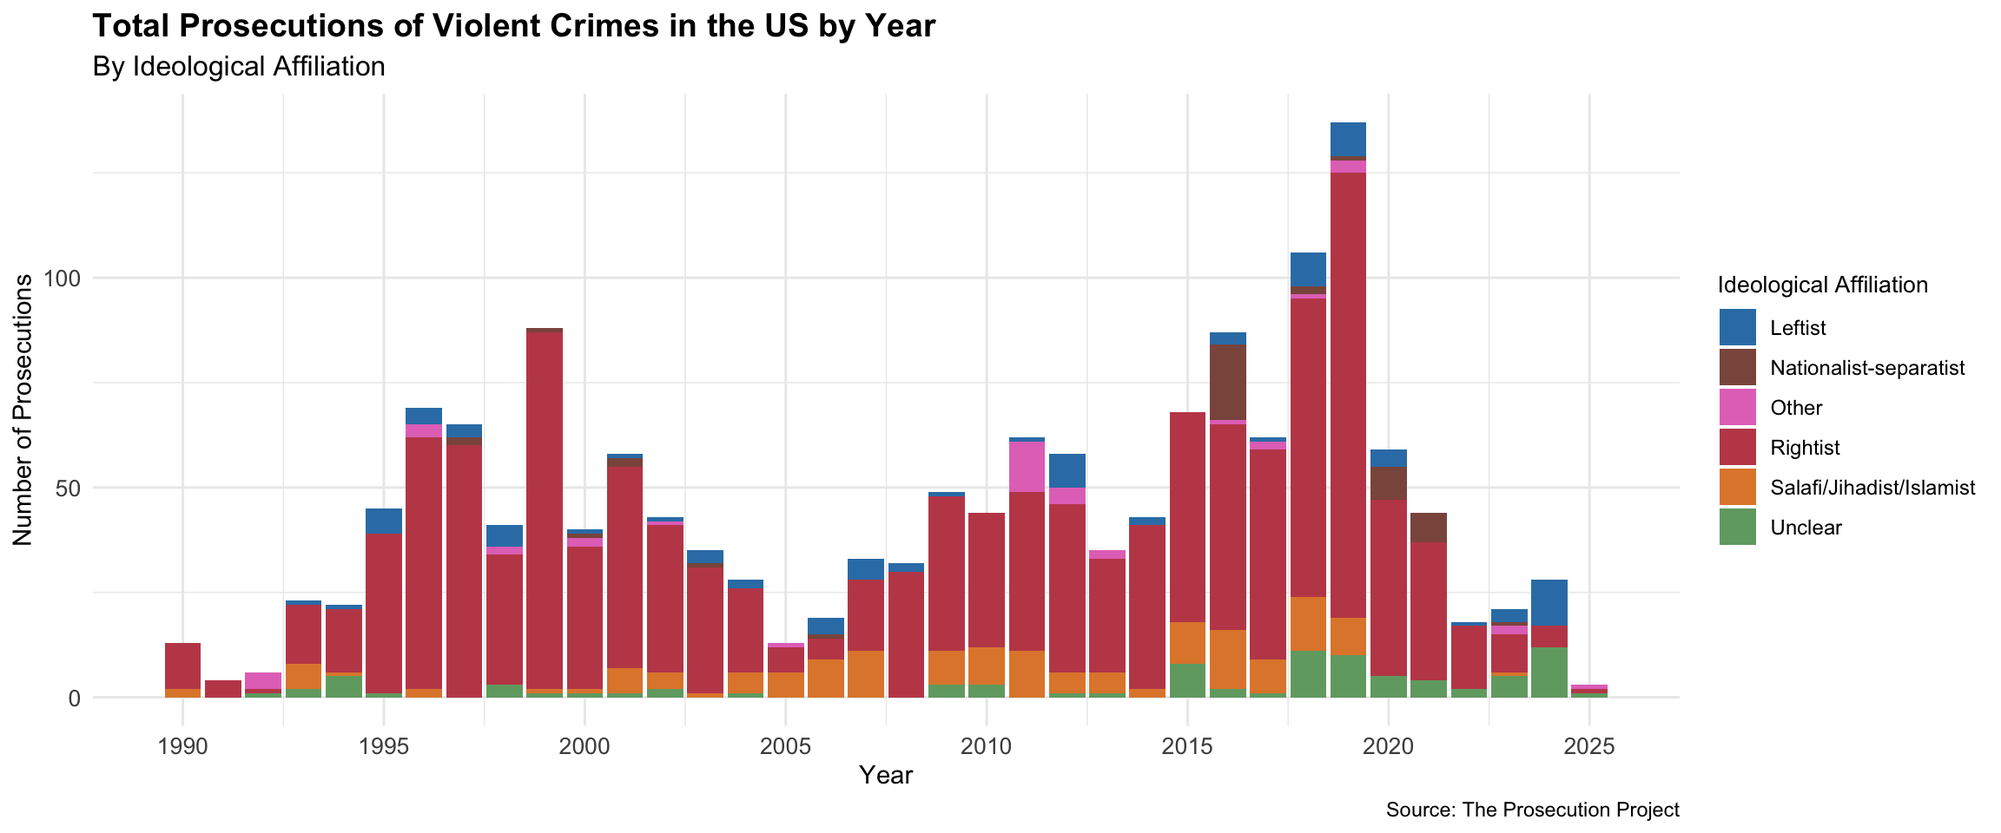
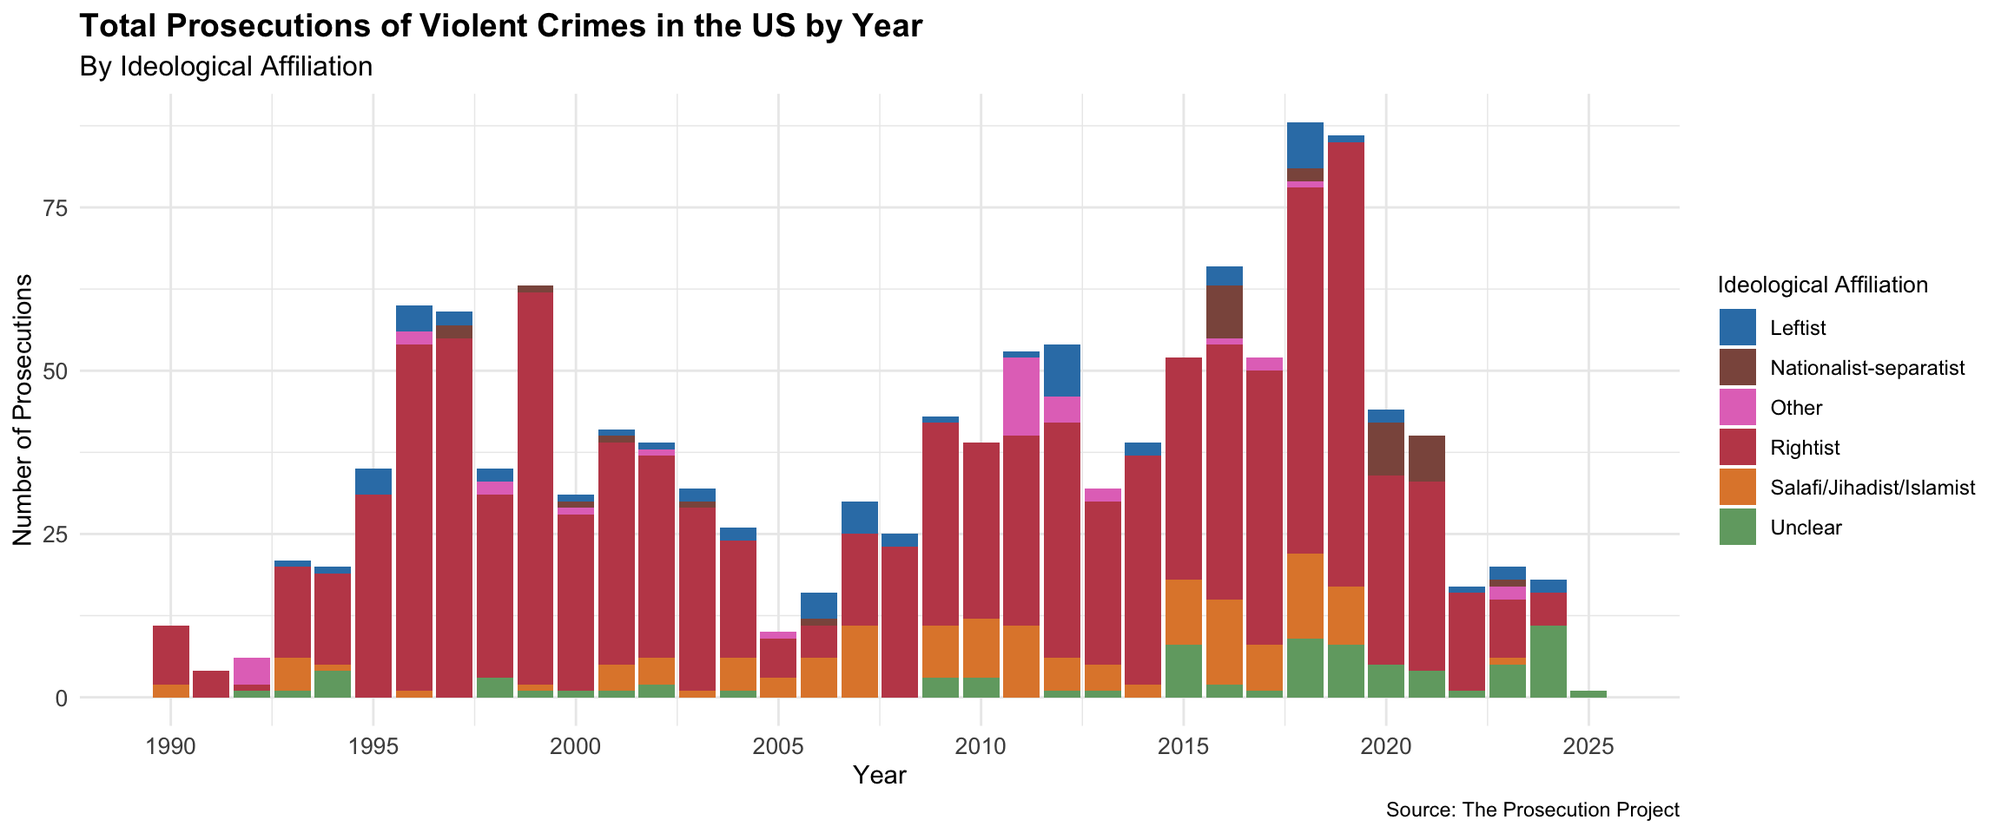
Don't double count deaths in cases where more than one person is tried for the same incident

diff --git a/violence.html b/violence.html
@@ -117,7 +117,7 @@ pre > code.sourceCode > span > a:first-child::before { text-decoration: underlin
 </div>
 <section id="prepare-the-data" class="level2">
 <h2 class="anchored" data-anchor-id="prepare-the-data">Prepare the data</h2>
-<p>Import the data, clean the column names, and filter for only the US.</p>
+<p>Import the data, clean the column names, and remove pending cases and cases without clear guilty verdict, filter for only the US.</p>
 <div class="cell">
 <details class="code-fold">
 <summary>Code</summary>
@@ -134,10 +134,19 @@ pre > code.sourceCode > span > a:first-child::before { text-decoration: underlin
 <span id="cb2-11"><a href="#cb2-11" aria-hidden="true" tabindex="-1"></a>    )</span>
 <span id="cb2-12"><a href="#cb2-12" aria-hidden="true" tabindex="-1"></a>  )</span>
 <span id="cb2-13"><a href="#cb2-13" aria-hidden="true" tabindex="-1"></a></span>
-<span id="cb2-14"><a href="#cb2-14" aria-hidden="true" tabindex="-1"></a>df <span class="ot">&lt;-</span> df <span class="sc">|&gt;</span> </span>
-<span id="cb2-15"><a href="#cb2-15" aria-hidden="true" tabindex="-1"></a>    <span class="fu">filter</span>(location_country <span class="sc">==</span> <span class="st">"United States"</span>)</span></code><button title="Copy to Clipboard" class="code-copy-button"><i class="bi"></i></button></pre></div>
+<span id="cb2-14"><a href="#cb2-14" aria-hidden="true" tabindex="-1"></a>no_clear_guilt <span class="ot">&lt;-</span> <span class="fu">c</span>(<span class="st">"Charged but not tried"</span>, <span class="st">"Data not available"</span>, <span class="st">"Not guilty"</span>, <span class="st">"Hung jury/mistrial"</span>, <span class="st">"Pending"</span>)</span>
+<span id="cb2-15"><a href="#cb2-15" aria-hidden="true" tabindex="-1"></a>num_no_clear_guilt <span class="ot">&lt;-</span> df <span class="sc">|&gt;</span> </span>
+<span id="cb2-16"><a href="#cb2-16" aria-hidden="true" tabindex="-1"></a>    <span class="fu">filter</span>(verdict <span class="sc">%in%</span> no_clear_guilt) <span class="sc">|&gt;</span> </span>
+<span id="cb2-17"><a href="#cb2-17" aria-hidden="true" tabindex="-1"></a>    <span class="fu">nrow</span>()</span>
+<span id="cb2-18"><a href="#cb2-18" aria-hidden="true" tabindex="-1"></a></span>
+<span id="cb2-19"><a href="#cb2-19" aria-hidden="true" tabindex="-1"></a>df <span class="ot">&lt;-</span> df <span class="sc">|&gt;</span> </span>
+<span id="cb2-20"><a href="#cb2-20" aria-hidden="true" tabindex="-1"></a>    <span class="fu">filter</span>(<span class="sc">!</span>verdict <span class="sc">%in%</span> no_clear_guilt)</span>
+<span id="cb2-21"><a href="#cb2-21" aria-hidden="true" tabindex="-1"></a></span>
+<span id="cb2-22"><a href="#cb2-22" aria-hidden="true" tabindex="-1"></a>df <span class="ot">&lt;-</span> df <span class="sc">|&gt;</span> </span>
+<span id="cb2-23"><a href="#cb2-23" aria-hidden="true" tabindex="-1"></a>    <span class="fu">filter</span>(location_country <span class="sc">==</span> <span class="st">"United States"</span>)</span></code><button title="Copy to Clipboard" class="code-copy-button"><i class="bi"></i></button></pre></div>
 </details>
 </div>
+<p>There were <em>1322</em> cases without a clear guilty verdict that were removed from the analysis.</p>
 <p>How many cases are not linked or motivated politically?</p>
 <div class="cell">
 <details class="code-fold">
@@ -149,7 +158,7 @@ pre > code.sourceCode > span > a:first-child::before { text-decoration: underlin
 <span id="cb3-5"><a href="#cb3-5" aria-hidden="true" tabindex="-1"></a>    <span class="fu">nrow</span>()</span></code><button title="Copy to Clipboard" class="code-copy-button"><i class="bi"></i></button></pre></div>
 </details>
 </div>
-<p>There are <em>299</em> cases not politically motivated out of a total of <em>4242 cases</em>, which is <em>7.05%</em>. So, we will exclude the non-politically motivated cases from our analysis.</p>
+<p>There were <em>243</em> cases not politically motivated out of a total of <em>3304 cases</em>, which is <em>7.35%</em>. So, we will exclude the non-politically motivated cases going forward.</p>
 <div class="cell">
 <details class="code-fold">
 <summary>Code</summary>
@@ -220,55 +229,55 @@ pre > code.sourceCode > span > a:first-child::before { text-decoration: underlin
 <tbody>
 <tr class="odd">
 <td style="text-align: left;">Leftist: eco-animal focused</td>
-<td style="text-align: right;">185</td>
+<td style="text-align: right;">120</td>
 </tr>
 <tr class="even">
 <td style="text-align: left;">Leftist: government-focused</td>
-<td style="text-align: right;">341</td>
-</tr>
-<tr class="odd">
-<td style="text-align: left;">Leftist: identity-focused</td>
-<td style="text-align: right;">48</td>
-</tr>
-<tr class="even">
-<td style="text-align: left;">Leftist: unspecified</td>
-<td style="text-align: right;">18</td>
-</tr>
-<tr class="odd">
-<td style="text-align: left;">Nationalist-separatist</td>
-<td style="text-align: right;">94</td>
-</tr>
-<tr class="even">
-<td style="text-align: left;">No affiliation/not a factor</td>
-<td style="text-align: right;">127</td>
-</tr>
-<tr class="odd">
-<td style="text-align: left;">Other</td>
-<td style="text-align: right;">56</td>
-</tr>
-<tr class="even">
-<td style="text-align: left;">Rightist: abortion-focused</td>
 <td style="text-align: right;">103</td>
 </tr>
 <tr class="odd">
+<td style="text-align: left;">Leftist: identity-focused</td>
+<td style="text-align: right;">25</td>
+</tr>
+<tr class="even">
+<td style="text-align: left;">Leftist: unspecified</td>
+<td style="text-align: right;">6</td>
+</tr>
+<tr class="odd">
+<td style="text-align: left;">Nationalist-separatist</td>
+<td style="text-align: right;">70</td>
+</tr>
+<tr class="even">
+<td style="text-align: left;">No affiliation/not a factor</td>
+<td style="text-align: right;">108</td>
+</tr>
+<tr class="odd">
+<td style="text-align: left;">Other</td>
+<td style="text-align: right;">47</td>
+</tr>
+<tr class="even">
+<td style="text-align: left;">Rightist: abortion-focused</td>
+<td style="text-align: right;">92</td>
+</tr>
+<tr class="odd">
 <td style="text-align: left;">Rightist: government-focused</td>
-<td style="text-align: right;">515</td>
+<td style="text-align: right;">438</td>
 </tr>
 <tr class="even">
 <td style="text-align: left;">Rightist: identity-focused</td>
-<td style="text-align: right;">1571</td>
+<td style="text-align: right;">1289</td>
 </tr>
 <tr class="odd">
 <td style="text-align: left;">Rightist: unspecified</td>
-<td style="text-align: right;">58</td>
+<td style="text-align: right;">49</td>
 </tr>
 <tr class="even">
 <td style="text-align: left;">Salafi/Jihadist/Islamist</td>
-<td style="text-align: right;">636</td>
+<td style="text-align: right;">552</td>
 </tr>
 <tr class="odd">
 <td style="text-align: left;">Unclear</td>
-<td style="text-align: right;">167</td>
+<td style="text-align: right;">141</td>
 </tr>
 </tbody>
 </table>
@@ -305,31 +314,31 @@ pre > code.sourceCode > span > a:first-child::before { text-decoration: underlin
 <tbody>
 <tr class="odd">
 <td style="text-align: left;">Rightist</td>
-<td style="text-align: right;">2247</td>
+<td style="text-align: right;">1868</td>
 </tr>
 <tr class="even">
 <td style="text-align: left;">Salafi/Jihadist/Islamist</td>
-<td style="text-align: right;">636</td>
+<td style="text-align: right;">552</td>
 </tr>
 <tr class="odd">
 <td style="text-align: left;">Leftist</td>
-<td style="text-align: right;">592</td>
+<td style="text-align: right;">254</td>
 </tr>
 <tr class="even">
 <td style="text-align: left;">Unclear</td>
-<td style="text-align: right;">167</td>
+<td style="text-align: right;">141</td>
 </tr>
 <tr class="odd">
 <td style="text-align: left;">No affiliation/not a factor</td>
-<td style="text-align: right;">127</td>
+<td style="text-align: right;">108</td>
 </tr>
 <tr class="even">
 <td style="text-align: left;">Nationalist-separatist</td>
-<td style="text-align: right;">94</td>
+<td style="text-align: right;">70</td>
 </tr>
 <tr class="odd">
 <td style="text-align: left;">Other</td>
-<td style="text-align: right;">56</td>
+<td style="text-align: right;">47</td>
 </tr>
 </tbody>
 </table>
@@ -386,38 +395,38 @@ pre > code.sourceCode > span > a:first-child::before { text-decoration: underlin
 <tbody>
 <tr class="odd">
 <td style="text-align: left;">Rightist</td>
-<td style="text-align: right;">1188</td>
-<td style="text-align: right;">1059</td>
+<td style="text-align: right;">964</td>
+<td style="text-align: right;">904</td>
 </tr>
 <tr class="even">
 <td style="text-align: left;">Salafi/Jihadist/Islamist</td>
-<td style="text-align: right;">150</td>
-<td style="text-align: right;">486</td>
+<td style="text-align: right;">136</td>
+<td style="text-align: right;">416</td>
 </tr>
 <tr class="odd">
-<td style="text-align: left;">Leftist</td>
-<td style="text-align: right;">90</td>
-<td style="text-align: right;">502</td>
+<td style="text-align: left;">Unclear</td>
+<td style="text-align: right;">78</td>
+<td style="text-align: right;">63</td>
 </tr>
 <tr class="even">
-<td style="text-align: left;">Unclear</td>
-<td style="text-align: right;">87</td>
-<td style="text-align: right;">80</td>
+<td style="text-align: left;">Leftist</td>
+<td style="text-align: right;">62</td>
+<td style="text-align: right;">192</td>
 </tr>
 <tr class="odd">
 <td style="text-align: left;">No affiliation/not a factor</td>
-<td style="text-align: right;">46</td>
-<td style="text-align: right;">81</td>
+<td style="text-align: right;">38</td>
+<td style="text-align: right;">70</td>
 </tr>
 <tr class="even">
-<td style="text-align: left;">Nationalist-separatist</td>
-<td style="text-align: right;">45</td>
-<td style="text-align: right;">49</td>
+<td style="text-align: left;">Other</td>
+<td style="text-align: right;">35</td>
+<td style="text-align: right;">12</td>
 </tr>
 <tr class="odd">
-<td style="text-align: left;">Other</td>
-<td style="text-align: right;">41</td>
-<td style="text-align: right;">15</td>
+<td style="text-align: left;">Nationalist-separatist</td>
+<td style="text-align: right;">33</td>
+<td style="text-align: right;">37</td>
 </tr>
 </tbody>
 </table>
@@ -522,31 +531,54 @@ pre > code.sourceCode > span > a:first-child::before { text-decoration: underlin
 <div class="cell">
 <details class="code-fold">
 <summary>Code</summary>
-<div class="sourceCode cell-code" id="cb11"><pre class="sourceCode r code-with-copy"><code class="sourceCode r"><span id="cb11-1"><a href="#cb11-1" aria-hidden="true" tabindex="-1"></a>df_deaths <span class="ot">&lt;-</span> violent_crimes <span class="sc">|&gt;</span></span>
-<span id="cb11-2"><a href="#cb11-2" aria-hidden="true" tabindex="-1"></a>   <span class="fu">group_by</span>(ideology_simple) <span class="sc">|&gt;</span> </span>
-<span id="cb11-3"><a href="#cb11-3" aria-hidden="true" tabindex="-1"></a>   <span class="fu">summarise</span>(<span class="at">total_deaths =</span> <span class="fu">sum</span>(number_killed, <span class="at">na.rm =</span> <span class="cn">TRUE</span>)) <span class="sc">|&gt;</span> </span>
-<span id="cb11-4"><a href="#cb11-4" aria-hidden="true" tabindex="-1"></a>   <span class="fu">arrange</span>(<span class="fu">desc</span>(total_deaths))</span>
-<span id="cb11-5"><a href="#cb11-5" aria-hidden="true" tabindex="-1"></a></span>
-<span id="cb11-6"><a href="#cb11-6" aria-hidden="true" tabindex="-1"></a>plot1 <span class="ot">&lt;-</span> <span class="fu">ggplot</span>(df_deaths, <span class="fu">aes</span>(<span class="at">x =</span> <span class="fu">reorder</span>(ideology_simple, total_deaths), </span>
-<span id="cb11-7"><a href="#cb11-7" aria-hidden="true" tabindex="-1"></a>                                       <span class="at">y =</span> total_deaths)) <span class="sc">+</span></span>
-<span id="cb11-8"><a href="#cb11-8" aria-hidden="true" tabindex="-1"></a>    <span class="fu">geom_col</span>(<span class="at">fill =</span> <span class="st">"black"</span>, <span class="at">alpha =</span> <span class="fl">0.8</span>) <span class="sc">+</span></span>
-<span id="cb11-9"><a href="#cb11-9" aria-hidden="true" tabindex="-1"></a>    <span class="fu">coord_flip</span>() <span class="sc">+</span></span>
-<span id="cb11-10"><a href="#cb11-10" aria-hidden="true" tabindex="-1"></a>    <span class="fu">labs</span>(</span>
-<span id="cb11-11"><a href="#cb11-11" aria-hidden="true" tabindex="-1"></a>        <span class="at">title =</span> <span class="st">"Total Deaths from Violent Crimes in the US"</span>,</span>
-<span id="cb11-12"><a href="#cb11-12" aria-hidden="true" tabindex="-1"></a>        <span class="at">subtitle =</span> <span class="st">""</span>,</span>
-<span id="cb11-13"><a href="#cb11-13" aria-hidden="true" tabindex="-1"></a>        <span class="at">x =</span> <span class="st">"Ideological Affiliation"</span>,</span>
-<span id="cb11-14"><a href="#cb11-14" aria-hidden="true" tabindex="-1"></a>        <span class="at">y =</span> <span class="st">"Total Deaths from Violent Crimes"</span>,</span>
-<span id="cb11-15"><a href="#cb11-15" aria-hidden="true" tabindex="-1"></a>        <span class="at">caption =</span> <span class="st">"Source: The Prosecution Project"</span></span>
-<span id="cb11-16"><a href="#cb11-16" aria-hidden="true" tabindex="-1"></a>    ) <span class="sc">+</span></span>
-<span id="cb11-17"><a href="#cb11-17" aria-hidden="true" tabindex="-1"></a>    <span class="fu">theme_minimal</span>() <span class="sc">+</span></span>
-<span id="cb11-18"><a href="#cb11-18" aria-hidden="true" tabindex="-1"></a>    <span class="fu">theme</span>(</span>
-<span id="cb11-19"><a href="#cb11-19" aria-hidden="true" tabindex="-1"></a>        <span class="at">plot.title =</span> <span class="fu">element_text</span>(<span class="at">size =</span> <span class="dv">14</span>, <span class="at">face =</span> <span class="st">"bold"</span>),</span>
-<span id="cb11-20"><a href="#cb11-20" aria-hidden="true" tabindex="-1"></a>        <span class="at">plot.subtitle =</span> <span class="fu">element_text</span>(<span class="at">size =</span> <span class="dv">12</span>),</span>
-<span id="cb11-21"><a href="#cb11-21" aria-hidden="true" tabindex="-1"></a>        <span class="at">axis.text =</span> <span class="fu">element_text</span>(<span class="at">size =</span> <span class="dv">10</span>),</span>
-<span id="cb11-22"><a href="#cb11-22" aria-hidden="true" tabindex="-1"></a>        <span class="at">axis.title =</span> <span class="fu">element_text</span>(<span class="at">size =</span> <span class="dv">11</span>)</span>
-<span id="cb11-23"><a href="#cb11-23" aria-hidden="true" tabindex="-1"></a>    )</span>
-<span id="cb11-24"><a href="#cb11-24" aria-hidden="true" tabindex="-1"></a></span>
-<span id="cb11-25"><a href="#cb11-25" aria-hidden="true" tabindex="-1"></a>plot1</span></code><button title="Copy to Clipboard" class="code-copy-button"><i class="bi"></i></button></pre></div>
+<div class="sourceCode cell-code" id="cb11"><pre class="sourceCode r code-with-copy"><code class="sourceCode r"><span id="cb11-1"><a href="#cb11-1" aria-hidden="true" tabindex="-1"></a><span class="co"># Don't double count deaths in case where more than one person is tried for the same incident</span></span>
+<span id="cb11-2"><a href="#cb11-2" aria-hidden="true" tabindex="-1"></a>df_deaths <span class="ot">&lt;-</span> violent_crimes <span class="sc">|&gt;</span></span>
+<span id="cb11-3"><a href="#cb11-3" aria-hidden="true" tabindex="-1"></a>  <span class="fu">mutate</span>(</span>
+<span id="cb11-4"><a href="#cb11-4" aria-hidden="true" tabindex="-1"></a>    <span class="co"># Extract the incident date from Case ID (first part before underscore)  </span></span>
+<span id="cb11-5"><a href="#cb11-5" aria-hidden="true" tabindex="-1"></a>    <span class="at">incident_date =</span> <span class="fu">str_extract</span>(case_id, <span class="st">"^[^_]+"</span>),</span>
+<span id="cb11-6"><a href="#cb11-6" aria-hidden="true" tabindex="-1"></a>    <span class="co"># Parse the date correctly</span></span>
+<span id="cb11-7"><a href="#cb11-7" aria-hidden="true" tabindex="-1"></a>    <span class="at">incident_date_formatted =</span> <span class="fu">case_when</span>(</span>
+<span id="cb11-8"><a href="#cb11-8" aria-hidden="true" tabindex="-1"></a>      <span class="fu">str_length</span>(incident_date) <span class="sc">==</span> <span class="dv">8</span> <span class="sc">&amp;</span> <span class="fu">str_detect</span>(incident_date, <span class="st">"^</span><span class="sc">\\</span><span class="st">d{8}$"</span>) <span class="sc">~</span> </span>
+<span id="cb11-9"><a href="#cb11-9" aria-hidden="true" tabindex="-1"></a>        <span class="fu">paste0</span>(<span class="fu">str_sub</span>(incident_date, <span class="dv">1</span>, <span class="dv">2</span>), <span class="st">"/"</span>, </span>
+<span id="cb11-10"><a href="#cb11-10" aria-hidden="true" tabindex="-1"></a>               <span class="fu">str_sub</span>(incident_date, <span class="dv">3</span>, <span class="dv">4</span>), <span class="st">"/"</span>, </span>
+<span id="cb11-11"><a href="#cb11-11" aria-hidden="true" tabindex="-1"></a>               <span class="fu">str_sub</span>(incident_date, <span class="dv">5</span>, <span class="dv">8</span>)),</span>
+<span id="cb11-12"><a href="#cb11-12" aria-hidden="true" tabindex="-1"></a>      <span class="cn">TRUE</span> <span class="sc">~</span> incident_date</span>
+<span id="cb11-13"><a href="#cb11-13" aria-hidden="true" tabindex="-1"></a>    )</span>
+<span id="cb11-14"><a href="#cb11-14" aria-hidden="true" tabindex="-1"></a>  ) <span class="sc">|&gt;</span></span>
+<span id="cb11-15"><a href="#cb11-15" aria-hidden="true" tabindex="-1"></a>  <span class="fu">group_by</span>(incident_date, incident_date_formatted) <span class="sc">|&gt;</span></span>
+<span id="cb11-16"><a href="#cb11-16" aria-hidden="true" tabindex="-1"></a>  <span class="fu">summarise</span>(</span>
+<span id="cb11-17"><a href="#cb11-17" aria-hidden="true" tabindex="-1"></a>    <span class="at">unique_incidents =</span> <span class="dv">1</span>,  </span>
+<span id="cb11-18"><a href="#cb11-18" aria-hidden="true" tabindex="-1"></a>    <span class="at">related_cases =</span> <span class="fu">n</span>(),   </span>
+<span id="cb11-19"><a href="#cb11-19" aria-hidden="true" tabindex="-1"></a>    <span class="at">total_individuals =</span> <span class="fu">n_distinct</span>(full_legal_name), </span>
+<span id="cb11-20"><a href="#cb11-20" aria-hidden="true" tabindex="-1"></a>    <span class="at">total_deaths =</span> <span class="fu">first</span>(number_killed, <span class="at">na_rm =</span> <span class="cn">TRUE</span>),  </span>
+<span id="cb11-21"><a href="#cb11-21" aria-hidden="true" tabindex="-1"></a>    <span class="at">case_names =</span> <span class="fu">paste</span>(<span class="fu">unique</span>(name_of_case), <span class="at">collapse =</span> <span class="st">"; "</span>),</span>
+<span id="cb11-22"><a href="#cb11-22" aria-hidden="true" tabindex="-1"></a>    <span class="at">ideology_simple =</span> <span class="fu">first</span>(ideology_simple, <span class="at">na_rm =</span> <span class="cn">TRUE</span>),</span>
+<span id="cb11-23"><a href="#cb11-23" aria-hidden="true" tabindex="-1"></a>    <span class="at">.groups =</span> <span class="st">"drop"</span></span>
+<span id="cb11-24"><a href="#cb11-24" aria-hidden="true" tabindex="-1"></a>  ) <span class="sc">|&gt;</span></span>
+<span id="cb11-25"><a href="#cb11-25" aria-hidden="true" tabindex="-1"></a>  <span class="fu">group_by</span>(ideology_simple) <span class="sc">|&gt;</span> </span>
+<span id="cb11-26"><a href="#cb11-26" aria-hidden="true" tabindex="-1"></a>  <span class="fu">summarise</span>(<span class="at">total_deaths =</span> <span class="fu">sum</span>(total_deaths, <span class="at">na.rm =</span> <span class="cn">TRUE</span>)) <span class="sc">|&gt;</span> </span>
+<span id="cb11-27"><a href="#cb11-27" aria-hidden="true" tabindex="-1"></a>  <span class="fu">arrange</span>(<span class="fu">desc</span>(total_deaths))</span>
+<span id="cb11-28"><a href="#cb11-28" aria-hidden="true" tabindex="-1"></a></span>
+<span id="cb11-29"><a href="#cb11-29" aria-hidden="true" tabindex="-1"></a>plot1 <span class="ot">&lt;-</span> <span class="fu">ggplot</span>(df_deaths, <span class="fu">aes</span>(<span class="at">x =</span> <span class="fu">reorder</span>(ideology_simple, total_deaths), </span>
+<span id="cb11-30"><a href="#cb11-30" aria-hidden="true" tabindex="-1"></a>                                       <span class="at">y =</span> total_deaths)) <span class="sc">+</span></span>
+<span id="cb11-31"><a href="#cb11-31" aria-hidden="true" tabindex="-1"></a>    <span class="fu">geom_col</span>(<span class="at">fill =</span> <span class="st">"black"</span>, <span class="at">alpha =</span> <span class="fl">0.8</span>) <span class="sc">+</span></span>
+<span id="cb11-32"><a href="#cb11-32" aria-hidden="true" tabindex="-1"></a>    <span class="fu">coord_flip</span>() <span class="sc">+</span></span>
+<span id="cb11-33"><a href="#cb11-33" aria-hidden="true" tabindex="-1"></a>    <span class="fu">labs</span>(</span>
+<span id="cb11-34"><a href="#cb11-34" aria-hidden="true" tabindex="-1"></a>        <span class="at">title =</span> <span class="st">"Total Deaths from Violent Crimes in the US"</span>,</span>
+<span id="cb11-35"><a href="#cb11-35" aria-hidden="true" tabindex="-1"></a>        <span class="at">subtitle =</span> <span class="st">""</span>,</span>
+<span id="cb11-36"><a href="#cb11-36" aria-hidden="true" tabindex="-1"></a>        <span class="at">x =</span> <span class="st">"Ideological Affiliation"</span>,</span>
+<span id="cb11-37"><a href="#cb11-37" aria-hidden="true" tabindex="-1"></a>        <span class="at">y =</span> <span class="st">"Total Deaths from Violent Crimes"</span>,</span>
+<span id="cb11-38"><a href="#cb11-38" aria-hidden="true" tabindex="-1"></a>        <span class="at">caption =</span> <span class="st">"Source: The Prosecution Project"</span></span>
+<span id="cb11-39"><a href="#cb11-39" aria-hidden="true" tabindex="-1"></a>    ) <span class="sc">+</span></span>
+<span id="cb11-40"><a href="#cb11-40" aria-hidden="true" tabindex="-1"></a>    <span class="fu">theme_minimal</span>() <span class="sc">+</span></span>
+<span id="cb11-41"><a href="#cb11-41" aria-hidden="true" tabindex="-1"></a>    <span class="fu">theme</span>(</span>
+<span id="cb11-42"><a href="#cb11-42" aria-hidden="true" tabindex="-1"></a>        <span class="at">plot.title =</span> <span class="fu">element_text</span>(<span class="at">size =</span> <span class="dv">14</span>, <span class="at">face =</span> <span class="st">"bold"</span>),</span>
+<span id="cb11-43"><a href="#cb11-43" aria-hidden="true" tabindex="-1"></a>        <span class="at">plot.subtitle =</span> <span class="fu">element_text</span>(<span class="at">size =</span> <span class="dv">12</span>),</span>
+<span id="cb11-44"><a href="#cb11-44" aria-hidden="true" tabindex="-1"></a>        <span class="at">axis.text =</span> <span class="fu">element_text</span>(<span class="at">size =</span> <span class="dv">10</span>),</span>
+<span id="cb11-45"><a href="#cb11-45" aria-hidden="true" tabindex="-1"></a>        <span class="at">axis.title =</span> <span class="fu">element_text</span>(<span class="at">size =</span> <span class="dv">11</span>)</span>
+<span id="cb11-46"><a href="#cb11-46" aria-hidden="true" tabindex="-1"></a>    )</span>
+<span id="cb11-47"><a href="#cb11-47" aria-hidden="true" tabindex="-1"></a></span>
+<span id="cb11-48"><a href="#cb11-48" aria-hidden="true" tabindex="-1"></a>plot1</span></code><button title="Copy to Clipboard" class="code-copy-button"><i class="bi"></i></button></pre></div>
 </details>
 <div class="cell-output-display">
 <div>
